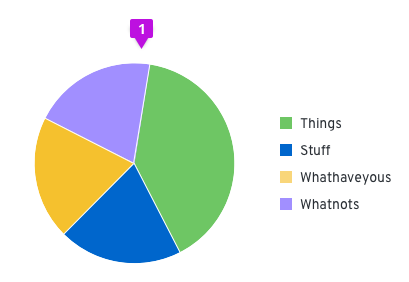
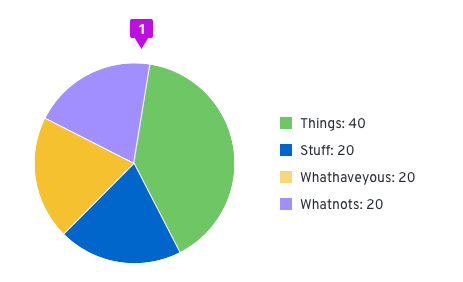
Added legend variable values to donut and pie charts

diff --git a/packages/patternfly-4/content/design-guidelines/usage-and-behavior/charts/design.md b/packages/patternfly-4/content/design-guidelines/usage-and-behavior/charts/design.md
@@ -95,7 +95,7 @@ For donut charts, don’t try to represent more than six categories. We recommen
 1. **Segment fill**: We recommend using [Colors for charts] (/design-guidelines/styles/chart-colors) for different items within the donut chart.
 2. **Segment padding**:  Always provide 3px of padding between segments.
 3. **Chart tooltip**: A tooltip will appear upon hover that states the name of the segment and corresponding value. For example, if the segment represents “Bugs,” and the value being represented is 25, your chart tooltip would state, “Bugs: 25.”
-4. **Label**: When the Donut Chart is contained within a dashboard card, there is a label defining what the Donut Chart represents. The label may also represent the total value of the data set. If this optional representation is chosen, it should follow the format of [total numeric value] + [data set label]. The total numeric value cannot contain more than 14 characters and should be styled using 24px font in standard text color. The data set label cannot contain more than 24 characters and should be styled using 14px font in secondary text color. They are to be centered within the donut and styled as shown. If the label exceeds the max character count, place it outside of the donut and leave the center empty.
+4. **Label**: When the Donut Chart is contained within a dashboard card, there is a label defining what the Donut Chart represents. The label may also represent the total value of the data set. If this optional representation is chosen, it should follow the format of [total numeric value] + [data set label]. The total numeric value should be rounded to two decimal places or less (14 characters max) and should be styled using 24px font in standard text color. The data set label cannot contain more than 24 characters and should be styled using 14px font in secondary text color. They are to be centered within the donut and styled as shown. If the label exceeds the max character count, place it outside of the donut and leave the center empty.
 5. **Legend**: In order to be compliant with accessibility guidelines, a legend is necessary. Each variable on the legend should report their current value.
 
 #### React component
